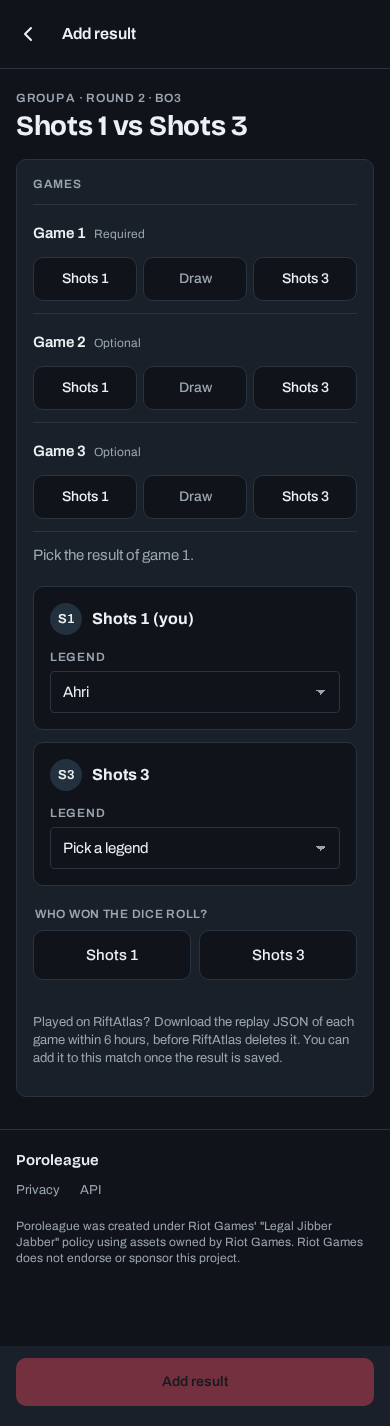
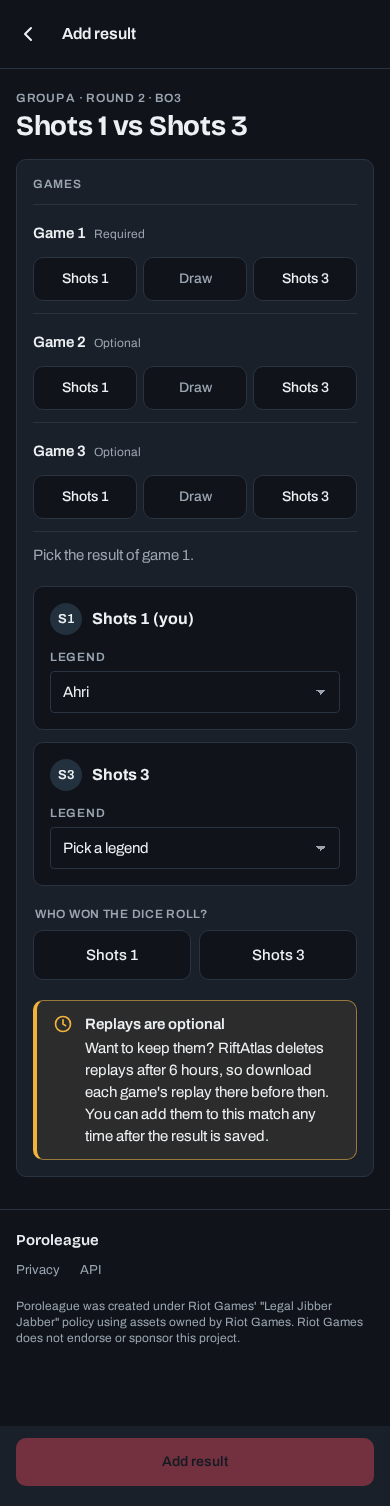
feat(replays): replay marker on match rows and a report-form callout (#272)
## Review guide

- Reviewable: 7 files, +94 −28 hand-written (code, unit, e2e, one shots
line).
- Generated: 10 PNGs under `.shots/` (8 changed, 2 new).
- Based on `main`: the rest of the stack (#266, #268, #269, #271) has
merged.

Reading order:
1. `src/lib/matchRow.ts`, `src/lib/matchRow.spec.ts`: `replay` is its
own boolean on `vsRow` and `povRow`; `chips` no longer carries "Replay
available". A chip ("Holiday revoked", "Early") still wins over it.
2. `src/lib/components/MatchRows.svelte`: a `replay` snippet
(`pb-mrow-rp`: play icon, "Replay", screen-reader " available"),
rendered under the score in `pb-mrow-mid` and after the legends in
`pb-mrow-sub`. The legends span gets the design's `pb-mrow-legs` so it
truncates before the marker does.
3. `src/routes/seasons/[slug]/matches/[id]/+page.svelte`: the muted
paragraph above the buttons becomes a `pb-callout` (`role="note"`) below
the dice roll, just above the buttons.
4. `e2e/replays.spec.ts`, `e2e/mobile.spec.ts`, `shots/pages.spec.ts`.

## What changed

- The marker shows when it did before (`matchCard.ts`: both players
published, not an early match). Only where and how it renders changed.
- Wide rows show the icon and "Replay"; phone rows the icon only. The
accessible text is still "Replay available".
- Report form callout softened after review: titled "Replays are
optional", worded as an offer, and placed below the form fields instead
of above the games (#264 and the `MobileReport` board put it on top with
[…]

diff --git a/e2e/replays.spec.ts b/e2e/replays.spec.ts
@@ -207,9 +207,18 @@ test('replays go public once both players publish', async ({ browser }) => {
 		await visitor.goto(url());
 		await expect(replays(visitor)).toHaveCount(yes ? 1 : 0);
 		expect((await visitor.request.get(`${url()}/replay/1`)).status()).toBe(yes ? 200 : 404);
-		await visitor.goto(`/seasons/${slug}/schedule`);
-		await expect(visitor.getByText(p1).first()).toBeVisible();
-		await expect(chip).toHaveCount(yes ? 1 : 0);
+		// The marker is on the match's row, on the schedule and on a player's page.
+		for (const [path, names] of [
+			['schedule', [p1, p2]],
+			[`players/${player('replays', 1)}`, [p2]]
+		] as const) {
+			await visitor.goto(`/seasons/${slug}/${path}`);
+			let row = visitor.getByRole('link');
+			for (const hasText of names) row = row.filter({ hasText });
+			await expect(row).toHaveCount(1);
+			await expect(row.getByText('Replay available')).toHaveCount(yes ? 1 : 0);
+			await expect(chip).toHaveCount(yes ? 1 : 0);
+		}
 	};
 	// The organizer is told who pressed, and has nothing to press.
 	const org = await browser.newPage(as(ORGANIZER));
@@ -354,8 +363,10 @@ test('Cancel, and the which-game step without JavaScript', async ({ browser }) =
 test('the report form reminds players to save the replay', async ({ browser }) => {
 	const page = await browser.newPage(as(player('replays', 1)));
 	await page.goto(`/seasons/${slug}/matches/${open}`);
-	await expect(
-		page.getByText('Download the replay JSON of each game within 6 hours')
-	).toBeVisible();
+	const note = page.getByRole('note');
+	await expect(note.getByText('Replays are optional', { exact: true })).toBeVisible();
+	await expect(note).toContainText(
+		"Want to keep them? RiftAtlas deletes replays after 6 hours, so download each game's replay there before then. You can add them to this match any time after the result is saved."
+	);
 	await expect(replays(page)).toHaveCount(0);
 });

diff --git a/src/lib/matchRow.spec.ts b/src/lib/matchRow.spec.ts
@@ -86,7 +86,8 @@ describe('vsRow', () => {
 			mid: null,
 			note: null,
 			warn: false,
-			chips: []
+			chips: [],
+			replay: false
 		});
 	});
 
@@ -141,14 +142,20 @@ describe('vsRow', () => {
 		expect(vsRow(card({ round: 4 }, c)).chips).toEqual([]);
 	});
 
-	it('a match both players published replays of gets the Replay available chip', () => {
+	it('a match both players published replays of gets the replay marker, not a chip', () => {
 		const c = ctx('p3', { ...season, publishedRound: 4 });
 		const both = { ...reported, p1PublishReplay: true, p2PublishReplay: true };
-		expect(vsRow(card({ round: 4, ...both }, c)).chips).toEqual(['Replay available']);
-		expect(povRow(card({ round: 4, ...both }, c), 'p1').chips).toEqual(['Replay available']);
-		expect(vsRow(card({ round: 4, ...both, p2PublishReplay: false }, c)).chips).toEqual([]);
+		const marks = (m: Partial<CardMatch>) => {
+			const k = card(m, c);
+			return [vsRow(k), povRow(k, 'p1')].map((r) => [r.replay, r.chips]);
+		};
+		const on = [true, []];
+		const off = [false, []];
+		expect(marks({ round: 4, ...both })).toEqual([on, on]);
+		expect(marks({ round: 4, ...both, p2PublishReplay: false })).toEqual([off, off]);
 		// An early match is nobody else's business yet.
-		expect(vsRow(card({ round: 5, ...both }, c)).chips).toEqual(['Early']);
+		const early = [false, ['Early']];
+		expect(marks({ round: 5, ...both })).toEqual([early, early]);
 	});
 
 	it('walkover: mid "W/O", note "<name> advances"', () => {
@@ -174,7 +181,8 @@ describe('povRow', () => {
 			score: [2, 0],
 			letter: 'W',
 			text: null,
-			chips: []
+			chips: [],
+			replay: false
 		});
 		expect(povRow(c, 'p2')).toMatchObject({
 			opponent: { name: 'Player 1', legend: 'Jinx' },

diff --git a/src/lib/components/MatchRows.svelte b/src/lib/components/MatchRows.svelte
@@ -42,6 +42,19 @@
 		<circle cx="9" cy="9" r="1.2" fill="currentColor" />
 	</svg>
 {/snippet}
+{#snippet replay()}
+	<span class="pb-mrow-rp">
+		<svg
+			class="pb-ico-play"
+			width="12"
+			height="12"
+			viewBox="0 0 24 24"
+			fill="currentColor"
+			aria-hidden="true"
+			><path d="M8 5.5v13a1 1 0 0 0 1.5.86l11-6.5a1 1 0 0 0 0-1.72l-11-6.5A1 1 0 0 0 8 5.5z" /></svg
+		><span class="pb-mrow-rp-t">Replay</span><span class="pb-sr">{' available'}</span>
+	</span>
+{/snippet}
 {#snippet badges(list: (string | null)[])}
 	{#each list as t (t)}
 		{#if t}<span class="pb-badge pb-badge-sm">{t}</span>{/if}
@@ -111,12 +124,15 @@
 									{#if r.overdue}<span class="pb-mrow-note is-warn">Overdue</span>{/if}
 									{@render badges([r.opponent.tag, ...r.chips])}
 								</span>
-								{#if r.legend || r.opponent.legend}
+								{#if r.legend || r.opponent.legend || r.replay}
 									<span class="pb-mrow-sub">
-										<span>
-											{#if r.legend}<span class="pb-mrow-as">as {r.legend} · vs{' '}</span>{/if}{r
-												.opponent.legend}
-										</span>
+										{#if r.legend || r.opponent.legend}
+											<span class="pb-mrow-legs">
+												{#if r.legend}<span class="pb-mrow-as">as {r.legend} · vs{' '}</span>{/if}{r
+													.opponent.legend}
+											</span>
+										{/if}
+										{#if r.replay}{@render replay()}{/if}
 									</span>
 								{/if}
 							</span>
@@ -159,6 +175,7 @@
 							{:else}
 								<span class="pb-mrow-mut">{r.mid}</span>
 							{/if}
+							{#if r.replay}{@render replay()}{/if}
 						</span>
 						{@render side(r.sides[1], 1)}
 						{#if r.note || r.chips.length}

diff --git a/src/routes/seasons/[slug]/matches/[id]/+page.svelte b/src/routes/seasons/[slug]/matches/[id]/+page.svelte
@@ -173,10 +173,29 @@
 			</fieldset>
 			{#if errors.dice}<p class="pb-hint is-error" role="alert">{errors.dice}</p>{/if}
 
-			<p class="muted small">
-				Played on RiftAtlas? Download the replay JSON of each game within 6 hours, before RiftAtlas
-				deletes it. You can add it to this match once the result is saved.
-			</p>
+			<div class="pb-callout" role="note">
+				<span class="pb-callout-ico">
+					<svg
+						width="20"
+						height="20"
+						viewBox="0 0 24 24"
+						fill="none"
+						stroke="currentColor"
+						stroke-width="2"
+						stroke-linecap="round"
+						stroke-linejoin="round"
+						aria-hidden="true"><path d="M12 7v5l3 2M12 21a9 9 0 1 0 0-18 9 9 0 0 0 0 18z" /></svg
+					>
+				</span>
+				<div class="pb-callout-body">
+					<strong class="pb-callout-title">Replays are optional</strong>
+					<span>
+						Want to keep them? RiftAtlas deletes replays after 6 hours, so download each game's
+						replay there before then. You can add them to this match any time after the result is
+						saved.
+					</span>
+				</div>
+			</div>
 
 			<div class="actions action-bar">
 				<ConfirmButton

diff --git a/src/lib/matchRow.ts b/src/lib/matchRow.ts
@@ -9,9 +9,9 @@ const chips = (c: Card) =>
 		? ['Holiday revoked']
 		: c.early
 			? ['Early']
-			: c.replay
-				? ['Replay available']
-				: [];
+			: [];
+// Both players published their replays. A chip wins over it.
+const replay = (c: Card) => c.replay && !chips(c).length;
 const onHoliday = (tag: string | null) => (tag === 'On holiday' ? tag : null);
 const canReport = (c: Card) => c.props.link.label === 'Report';
 
@@ -51,7 +51,8 @@ export function vsRow(c: Card) {
 						: 'vs',
 		note: c.status === 'overdue' ? `Week ${c.week}` : c.walkover ? `${c.walkover} advances` : null,
 		warn: c.status === 'overdue',
-		chips: chips(c)
+		chips: chips(c),
+		replay: replay(c)
 	};
 }
 export type VsRow = ReturnType<typeof vsRow>;
@@ -97,7 +98,8 @@ export function povRow(c: Card, playerId: string) {
 						: typeof c.round === 'number'
 							? `Week ${c.week}`
 							: null,
-		chips: chips(c)
+		chips: chips(c),
+		replay: replay(c)
 	};
 }
 export type PovRow = ReturnType<typeof povRow>;

diff --git a/e2e/mobile.spec.ts b/e2e/mobile.spec.ts
@@ -57,6 +57,7 @@ const pages = () => ({
 		'/rules',
 		s,
 		`${s}/schedule`,
+		`${s}/schedule?week=1`,
 		`${s}/legends`,
 		`${s}/audit`,
 		`${s}/players/${me}`,
@@ -149,6 +150,15 @@ for (const role of ['visitor', 'player', 'organizer'] as const) {
 		});
 	});
 }
+
+// Both row layouts are measured above with the replay marker beside the long name.
+test('the replay marker is on the row with the long name', async ({ page }) => {
+	for (const path of [`${s}/schedule?week=1`, `${s}/players/${me}`]) {
+		await page.goto(path);
+		const row = page.getByRole('link').filter({ hasText: 'Bartholomew Featherstonehaugh' });
+		await expect(row.filter({ hasText: 'Replay available' })).toHaveCount(1);
+	}
+});
 
 // The publish box and the organizer's status line name the opponent; the pages above show them public.
 test('one-sided publish states fit a phone', async ({ browser }) => {

diff --git a/shots/pages.spec.ts b/shots/pages.spec.ts
@@ -45,6 +45,7 @@ test('a season in play', async ({ browser }) => {
 		['visitor-privacy', '/privacy'],
 		['visitor-season', s],
 		['visitor-schedule', `${s}/schedule`],
+		['visitor-schedule-week-1', `${s}/schedule?week=1`],
 		['visitor-legends', `${s}/legends`],
 		['visitor-audit', `${s}/audit`],
 		['visitor-player', `${s}/players/${me}`],
